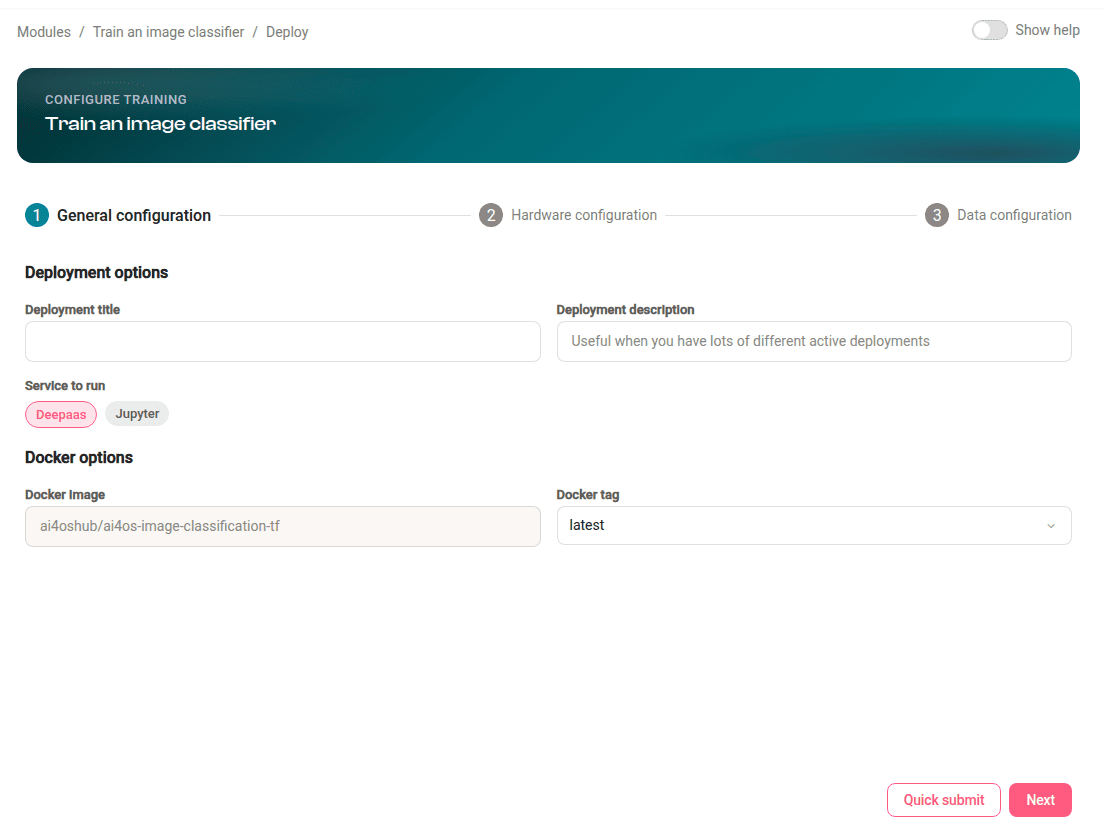
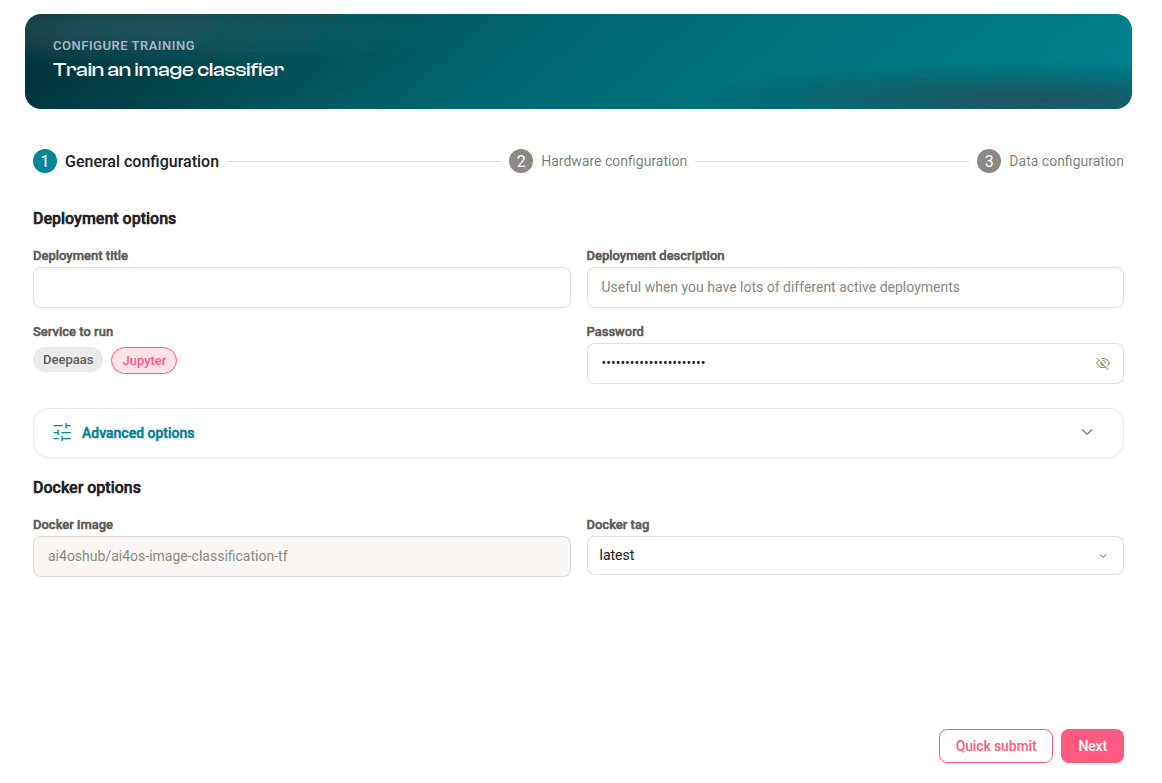
docs: update register instructions + center images

diff --git a/source/_static/css/piccolo-custom.css b/source/_static/css/piccolo-custom.css
@@ -53,6 +53,23 @@ img {
   border-radius: 10px;
 }
 
+/* Center images/figures (piccolo_theme + sphinxcontrib.images ignore :align:) */
+figure.align-center,
+.align-center {
+  text-align: center;
+}
+
+figure.align-center {
+  margin-left: auto;
+  margin-right: auto;
+}
+
+img.align-center {
+  display: block;
+  margin-left: auto;
+  margin-right: auto;
+}
+
 /* Smaller dropdown */
 details.sd-dropdown * {
   font-size: 95% !important;

diff --git a/source/getting-started/register.rst b/source/getting-started/register.rst
@@ -13,7 +13,7 @@ The `AI4EOSC Login <https://login.cloud.ai4eosc.eu/realms/ai4eosc/account>`__ us
 AI4EOSC federates a set of identity providers in order to grant access to the platform.
 For first time users, we recommend login with either one of the following two providers:
 
-* |myaccessid| `EduGain <https://edugain.org/>`__: this is the :material-outlined:`verified;1.5em` **recommended option for most users** as you will be granted increased privileges due to your trusted researcher status.
+* |myaccessid| `EduGain <https://edugain.org/>`__: this is the :material-outlined:`verified;1.5em` **recommended option for most users** as you will be granted increased privileges (:doc:`intermediate access level </reference/user-access-levels>`) due to your trusted researcher status.
 
   .. dropdown::  💡 Login with EduGain: University of Cantabria example
 
@@ -21,11 +21,13 @@ For first time users, we recommend login with either one of the following two pr
 
     .. image:: /_static/images/others/edugain-search.png
        :width: 400 px
+       :align: center
 
     Then, you should be redirected to your institution page to provide your credentials:
 
     .. image:: /_static/images/others/edugain-unican.png
        :width: 400 px
+       :align: center
 
     Sometimes you are shown the following error message:
     ``Unable to submit the form. You are not authorized to server. Your session might have expired. Please refresh the browser window to re-login.``
@@ -66,13 +68,25 @@ Additionally, we offer several federated authentication options including:
 :fab:`github` `Github <https://github.com/>`__,
 :fab:`google` `Google <https://accounts.google.com/>`__,
 |ifca| `IFCA SSO <https://sso.ifca.es>`__ and
-|orcid| `ORCID <https://orcid.org/>`__.
+manual registration.
+Accounts created with any of these methods will only be granted :doc:`basic access level </reference/user-access-levels>` by default.
+
+.. dropdown::  💡 Register an account manually
+
+   To register a new account manually:
+
+   * Click on the ``Register`` button on the login page,
+   * Please provide all the details that are listed in the registration form and preferably use your **institutional account** (university, research center).
+   * After you have filled in all the details, click on the ``Register`` button. You will receive an email with a link to confirm your registration. Click on the link to confirm your registration.
+
+   Once created, you can input your credentials using the ``Sign In`` option, at the top of the page.
 
 .. tip::
 
-  Accounts are mapped by email. So you can authenticate the first time with EGI Check-In, then can subsequently authenticate with any other option (eg. Github), as long as they share the same email.
+  Accounts are mapped by email. So you can authenticate the first time with EduGain, then can subsequently authenticate with any other option (eg. Github), as long as they share the same email.
+  If you prefer, you can also manually link your accounts in the `AI4EOSC Profile manager <https://login.cloud.ai4eosc.eu/realms/ai4eosc/account/#/account-security/linked-accounts>`__.
 
-Each authentication system will grant different :doc:`user access levels </reference/user-access-levels>`.
+In summary, each authentication system will grant different :doc:`user access levels </reference/user-access-levels>`.
 In short:
 
 * users coming from the of the supported projects will have **full access** level.
@@ -80,33 +94,10 @@ In short:
 
   .. include:: /snippets/supported-projects.rst
 
-* user coming from EduGain will have **intermediate access** level.
-* remaining users (eg. Github, Google) will only have **basic access** level (observers).
+* user coming from |myaccessid| `EduGain <https://edugain.org/>`__ will have **intermediate access** level.
+* remaining users (eg. :fab:`github` `Github <https://github.com/>`__, :fab:`google` `Google <https://accounts.google.com/>`__, |ifca| `IFCA SSO <https://sso.ifca.es>`__ and manual registration) will only have **basic access** level (observers).
 
 We are also able to :ref:`upgrade the access level of selected users <reference/user-access-levels:Option 2. Make a special request>` with interesting usecases, even if they are not members of a selected project.
-
-
-.. TODO: reenable when possible
-.. Option 2. Register a new account
-.. ^^^^^^^^^^^^^^^^^^^^^^^^^^^^^^^^
-
-.. It is also possible to manually registering new account, although *this is not
-.. recommended* as the process is slower, since requests need to be manually approved by
-.. an administrator.
-
-.. To register a new account manually:
-
-.. * Click on the ``Register`` button on the login page,
-.. * Please provide all the details that are listed in the registration form and preferably
-..   use your **institutional account** (university, research center). This will speed up the
-..   approval process.
-.. * After you have filled in all the details, click on the ``Register`` button. You will
-..   receive an email with a link to confirm your registration. Click on the link to confirm
-..   your registration and then you will be approved by an administrator.
-
-.. Accounts created this way will have **basic access** level by default (see :doc:`user access levels </reference/user-access-levels>`).
-
-.. Once created, you can input your credentials using the ``Sign In`` option, at the top of the page.
 
 
 Login to the platform

diff --git a/source/howtos/develop/mlflow.rst b/source/howtos/develop/mlflow.rst
@@ -24,6 +24,7 @@ Go to the `Sign Up page <https://mlflow.cloud.ai4eosc.eu/signup>`__ for self reg
 
 .. image:: /_static/images/mlflow/self-registration.png
    :width: 500 px
+   :align: center
 
 Then, in the next window:
 
@@ -54,6 +55,7 @@ Once you login, you will see the default MLflow UI as follows:
 
 .. image:: /_static/images/mlflow/ui.png
    :width: 1000 px
+   :align: center
 
 After having created the account, you should see the service appear in your :ref:`Dashboard profile <dashboard/profile:Linked services>`.
 
@@ -174,9 +176,11 @@ There exists two Logging options as illustrated in the following Figures.
 
 .. image:: /_static/images/mlflow/autolog-quickview.png
    :width: 1000 px
+   :align: center
 
 .. image:: /_static/images/mlflow/custom-log-quickview.png
    :width: 1000 px
+   :align: center
 
 * Important commands to know
 
@@ -208,7 +212,8 @@ There exists two Logging options as illustrated in the following Figures.
 * Relevant information extracted from an Experiment-Run (see figure below) defined as a single execution of a machine learning code
 
 .. image:: /_static/images/mlflow/run-info.png
-  :width: 1000 px
+   :width: 1000 px
+   :align: center
 
 5. MLflow Model Versioning and Production Deployment
 ----------------------------------------------------

diff --git a/source/howtos-genai/use/chat.rst b/source/howtos-genai/use/chat.rst
@@ -43,6 +43,7 @@ Each model comes with its own model card.
 
 .. image:: /_static/images/genai-ui/llm-details.png
    :width: 600 px
+   :align: center
 
 The card provides information like:
 
@@ -92,6 +93,7 @@ Clicking on a particular collection will show you what are the documents that ar
 
 .. image:: /_static/images/genai-ui/knowledge-files.png
    :width: 500 px
+   :align: center
 
 Create your private knowledge base
 ^^^^^^^^^^^^^^^^^^^^^^^^^^^^^^^^^^
@@ -100,11 +102,13 @@ In addition to public collections, you can create your private ones. For this, o
 
 .. image:: /_static/images/genai-ui/knowledge-creation.png
    :width: 500 px
+   :align: center
 
 Then you can clik again on the newly created collection, and a new window will pop up where you will be able to upload documents:
 
 .. image:: /_static/images/genai-ui/knowledge-upload.png
    :width: 500 px
+   :align: center
 
 Then, with the collection selected, you will be able to query your LLM grounding the responses on the documents contained in that selection:
 
@@ -121,6 +125,7 @@ Each agent comes with each own agent card.
 
 .. image:: /_static/images/genai-ui/agent-details.png
    :width: 600 px
+   :align: center
 
 The card provides information like:
 

diff --git a/source/dashboard/deployments.rst b/source/dashboard/deployments.rst
@@ -59,6 +59,8 @@ The parameters to configure are:
     Then run ``deep-start --deepaas`` to launch DEEPaaS.
     If you make subsequent code changes, you will have to kill the old DEEPaaS process and launch a new one.
 
+* :fa:`sliders` ``Advanced options``: Here you will be able to manually select the datacenter where your deployment will land on. Leave empty if you have no preference. Specifying the datacenter can be helpful for privacy sensitive usecases that are required to run models on their own computing resources.
+
 * ``Docker tag`` selects the appropriate Docker tags of your module (tags may vary across modules).
   You should choose Docker tag that match with the hardware you selected in the previous step.
   So if you selected a CPU, look for ``latest`` or ``cpu`` tags.

diff --git a/source/advanced/api.rst b/source/advanced/api.rst
@@ -132,6 +132,7 @@ and go to http://0.0.0.0:5000/ui. You will see the Swagger UI with all the metho
 
 .. image:: /_static/images/endpoints/deepaas.png
    :width: 500 px
+   :align: center
 
 If running the API from inside a module's Docker container, you can use the command:
 
@@ -145,6 +146,7 @@ If running the API from inside a module's Docker container, you can use the comm
 
     .. image:: /_static/images/endpoints/deepaas-error.png
        :width: 500 px
+       :align: center
 
     This mean that DEEPaaS had problems to load your module and loaded instead the dummy module (``deepaas-test``).
     You can usually debug by running your module's API script and looking at the error it raised:

diff --git a/source/howtos/train/standard.rst b/source/howtos/train/standard.rst
@@ -125,6 +125,7 @@ In your deployment go to ⓘ ``Info`` and click on the ``API`` active endpoint.
 
 .. image:: /_static/images/endpoints/deepaas.png
    :width: 500 px
+   :align: center
 
 Look for the ``train`` POST method. Modify the training parameters you wish to change and execute. In our case, you might need to correctly point to the training dataset location.
 

diff --git a/source/howtos/train/federated-flower.rst b/source/howtos/train/federated-flower.rst
@@ -95,7 +95,8 @@ Now that your fedserver is running, you need to do the following steps:
    revoke them:
 
    .. image:: /_static/images/dashboard/deployments/details/flower-secrets.png
-     :width: 500 px
+      :width: 500 px
+      :align: center
 
 3. **Share them with the clients**:
 

diff --git a/source/howtos-genai/use/devenv.rst b/source/howtos-genai/use/devenv.rst
@@ -47,7 +47,6 @@ In the login window, select the ``Use password`` option and input the password y
    :width: 300 px
    :align: center
 
-
 Then start chatting about your new project:
 
 .. image:: /_static/images/endpoints/opencode-session.png

diff --git a/source/howtos/deploy/nomad.rst b/source/howtos/deploy/nomad.rst
@@ -44,6 +44,7 @@ Click the :material-outlined:`terminal;1.5em` ``Quick access`` to access the DEE
 
 .. image:: /_static/images/endpoints/deepaas.png
    :width: 500 px
+   :align: center
 
 In the ``POST .../predict`` method:
 
